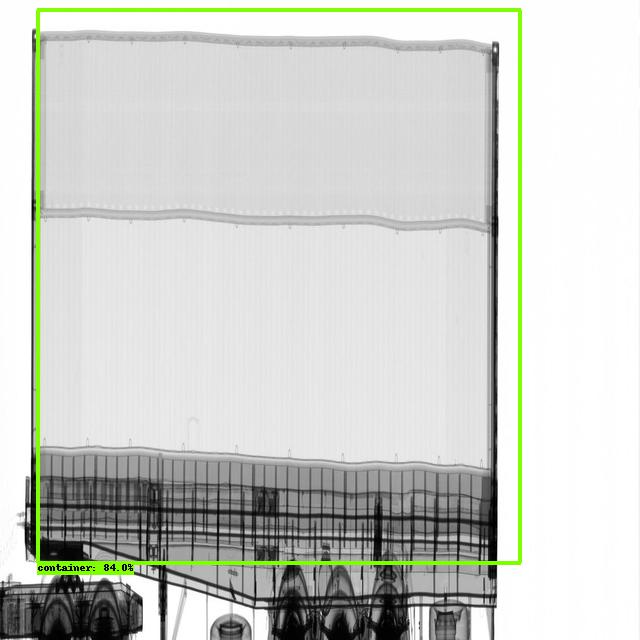
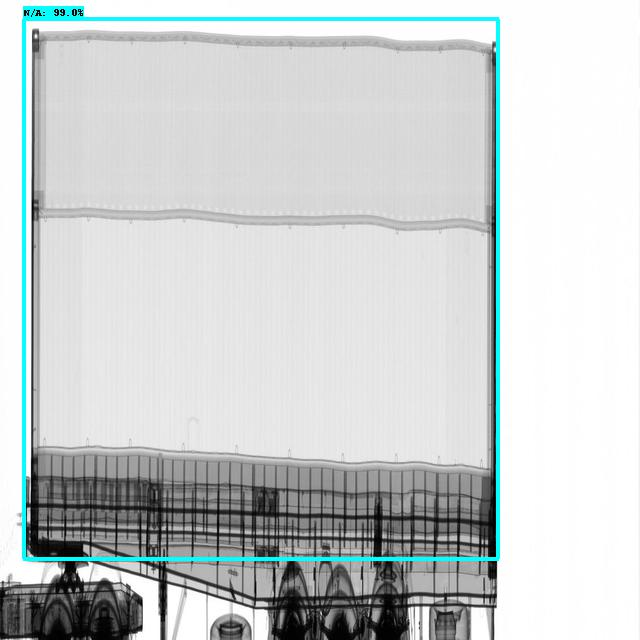
Modelo "destravado" - stack_6

Changed region(s): [[0.0312, 0.0, 0.8438, 0.9062]]

diff --git a/carrega_modelo_final.py b/carrega_modelo_final.py
@@ -34,7 +34,7 @@ def modelo_ssd():
     model_config.ssd.freeze_batchnorm = True
     ssd_model = model_builder.build(model_config=model_config, is_training=False)
     ckpt_trained = tf.compat.v2.train.Checkpoint(model=ssd_model)
-    ckpt_trained.restore(MODEL + 'checkpoint_2classes_ciclo2/ckpt-5').expect_partial()
+    ckpt_trained.restore(MODEL + 'checkpoint/ckpt-10').expect_partial()
     print('Weights restored!')
     return ssd_model
 
@@ -146,11 +146,11 @@ if __name__ == '__main__':
     test_images = ['test/5c8e9cde1004b308a9d88b0a/5c8e9cde1004b308a9d88b0a.jpg',
                    'test/5fe24810797187c24a9299e4.jpeg']
     ground_true_bbox = [[15, 49, 214, 518] ,
-                        [13, 98, 702, 1372]]
+                        [20, 66, 702, 1320]]
 
     for ind, path in enumerate(test_images):
         print(f'Test Image {ind}')
         predict_image(path, f'teste{ind}.jpg')
         bbox = normalized_image_test(path, f'teste{ind}')
         assert sum([abs(item_pred - item_groung_truth)
-                    for item_pred, item_groung_truth in zip(bbox, ground_true_bbox[ind])]) < 10
+                    for item_pred, item_groung_truth in zip(bbox, ground_true_bbox[ind])]) < 24
